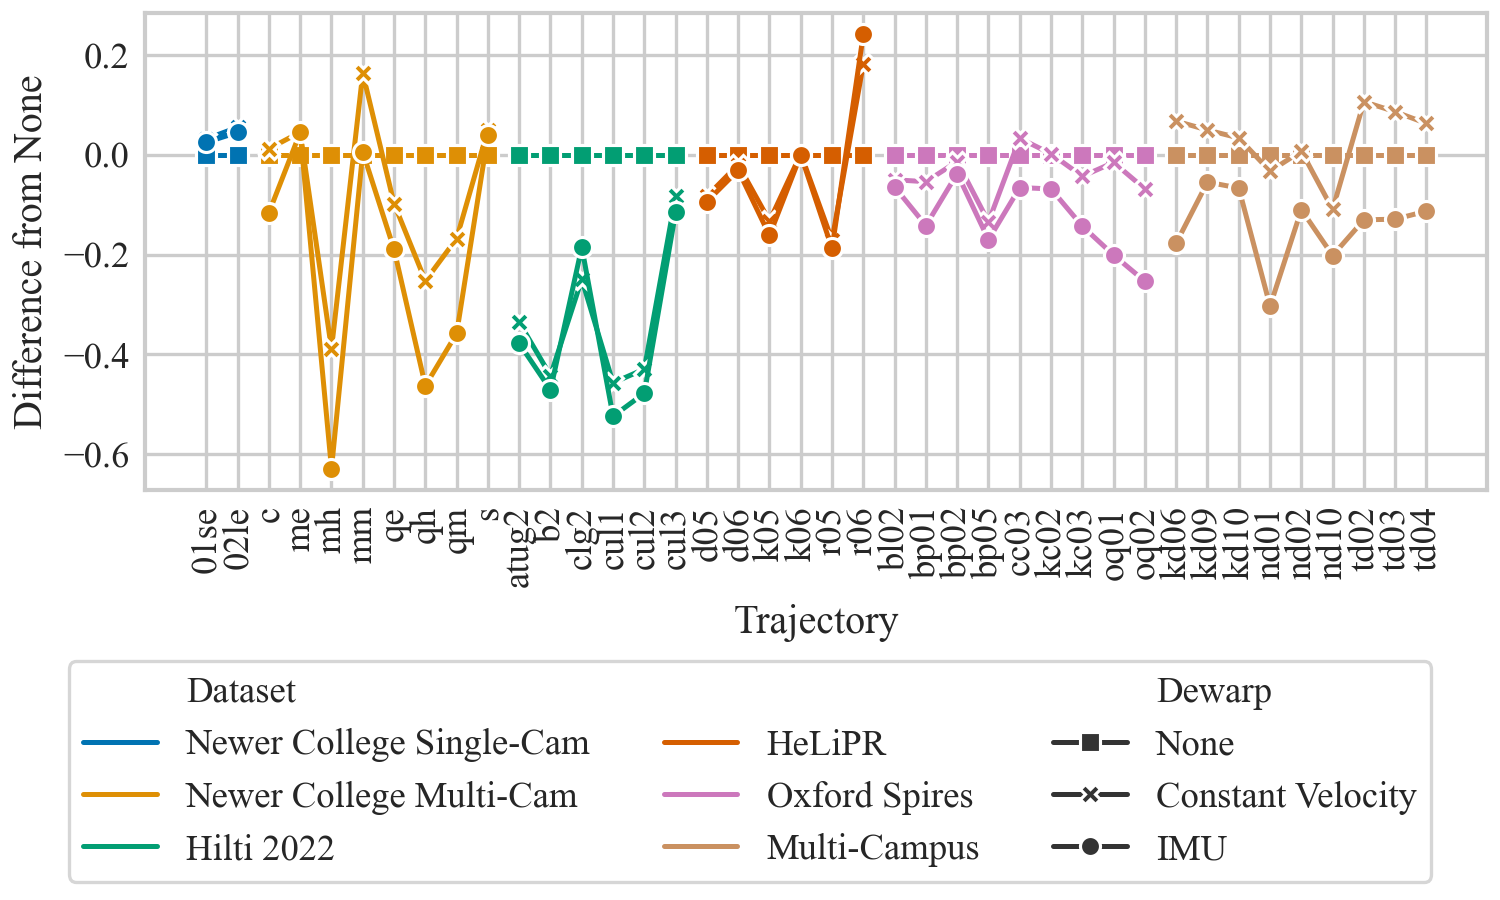
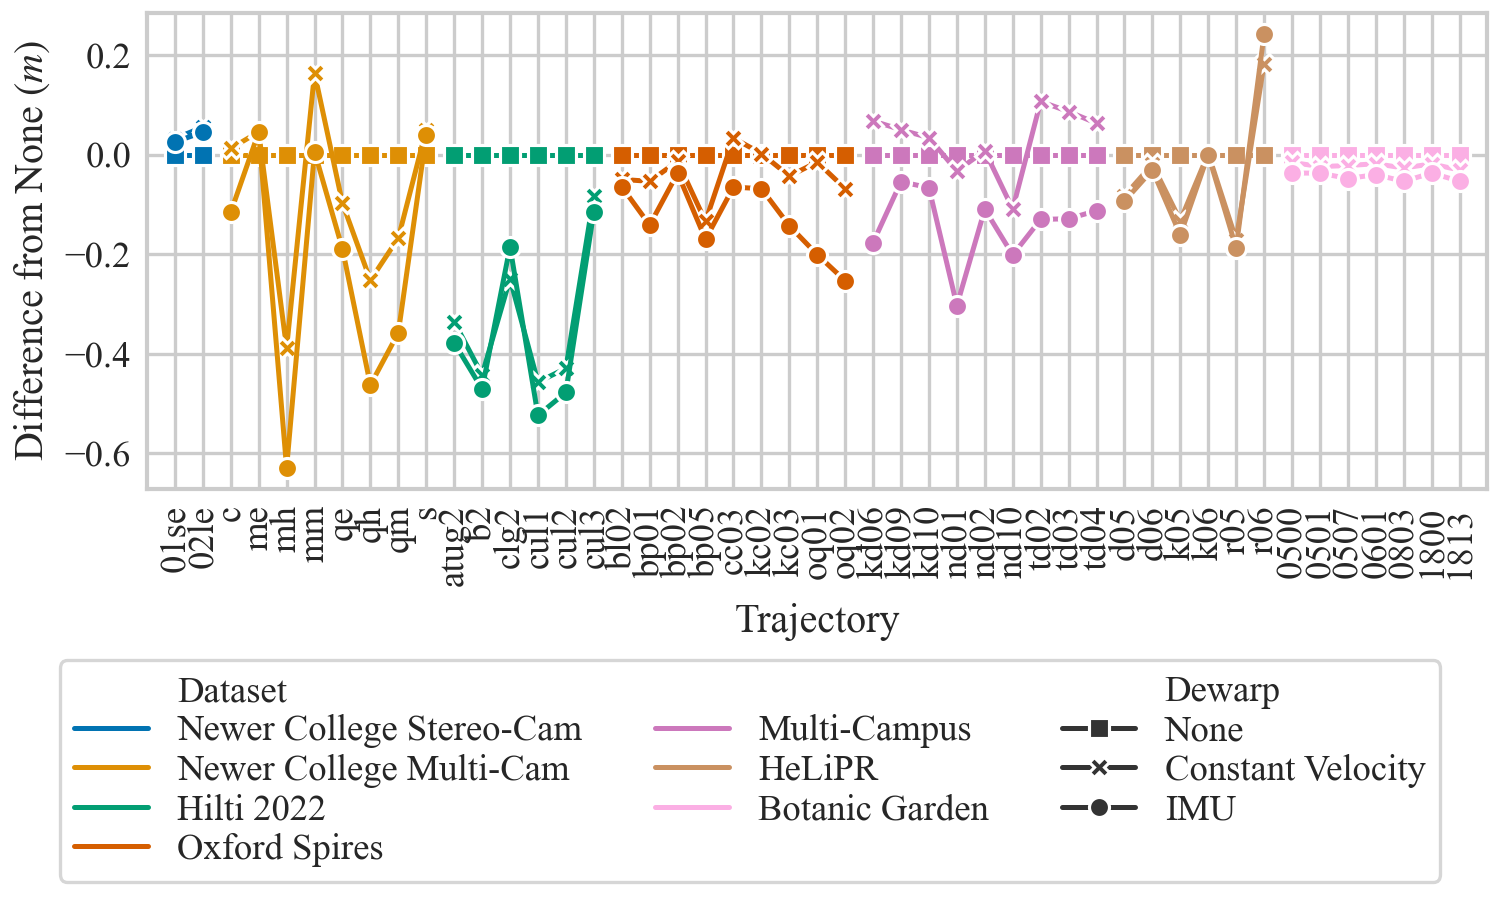
Fixed botanic dewarping

diff --git a/src/generate_imu_bias.py b/src/generate_imu_bias.py
@@ -90,7 +90,7 @@ def load_data(
             lidar_stamps.append(mm.stamp)
 
         # Keep a little fudge room since we skip some stamps at the start
-        if length is not None and len(lidar_stamps) >= length + 100:
+        if length is not None and len(lidar_stamps) >= length + 500:
             break
 
     lidar_rate = len(lidar_stamps) / (lidar_stamps[-1] - lidar_stamps[0])
@@ -402,10 +402,8 @@ if __name__ == "__main__":
     # test("hilti_2022/basement_2")
     # quit()
 
-    out_dir = Path("data_temp")
-
     for name in ALL_TRAJ:
-        run(name, out_dir=out_dir, force=False, length=LEN)
+        run(name, out_dir=INC_DATA_DIR, force=False, length=LEN)
 
     # test("helipr/kaist_05", length=500)
-    # run("helipr/kaist_05", out_dir=out_dir, force=True, length=100)
+    # run("botanic_garden/1005_00", out_dir=Path("data_temp"), force=True, length=3000)

diff --git a/experiments/dewarp.py b/experiments/dewarp.py
@@ -23,7 +23,7 @@ def run(num_threads: int):
         Dewarp.Identity,
         Dewarp.ConstantVelocity,
         Dewarp.Imu,
-        Dewarp.GroundTruthConstantVelocity,
+        # Dewarp.GroundTruthConstantVelocity,
     ]
 
     init = [
@@ -98,7 +98,12 @@ def plot(name: str, force: bool):
     ax.tick_params(axis="x", pad=-1, rotation=90)
     ax.tick_params(axis="y", pad=-1)
 
-    ax.set_ylabel("Difference from None (m)", labelpad=3)
+    ax.set_ylabel("Difference from None $(m)$", labelpad=3)
+
+    traj = df.select("Trajectory").unique().to_numpy()
+    xmax = len(traj) - 1
+    extra = 1.0
+    ax.set_xlim(0.0 - extra, xmax + extra)
 
     fig.legend(
         handles=handles,

diff --git a/src/stats.py b/src/stats.py
@@ -246,7 +246,7 @@ def eval_dataset(
                 "w100_RTEt": window100_rte.trans,
                 "w100_RTEr": window100_rte.rot,
                 "RTEt": rte.trans,
-                # "RTEr": rte.rot,
+                "RTEr": rte.rot,
                 # "ATEt": ate.trans,
                 # "ATEr": ate.rot,
                 "point": exp.get_feature(Feature.Point).mean(),

diff --git a/experiments/init.py b/experiments/init.py
@@ -28,7 +28,7 @@ def run(num_threads: int):
             init=i,
             features=[Feature.Planar],
         )
-        for d, i in product(ALL_TRAJ, init)
+        for i, d in product(init, ALL_TRAJ)
     ]
 
     run_multithreaded(experiments, dir, num_threads=num_threads, length=LEN)
